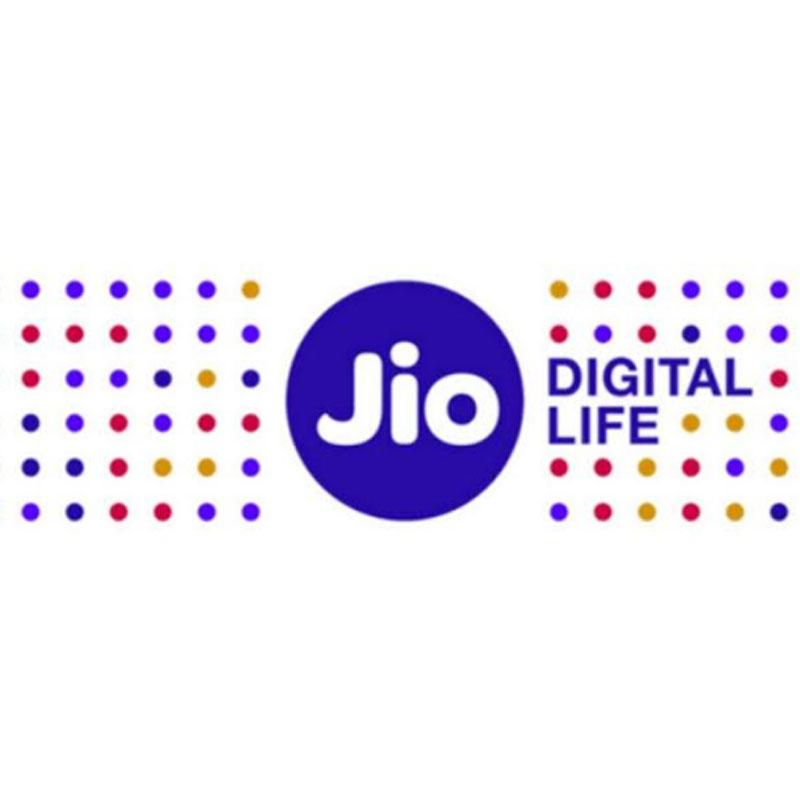
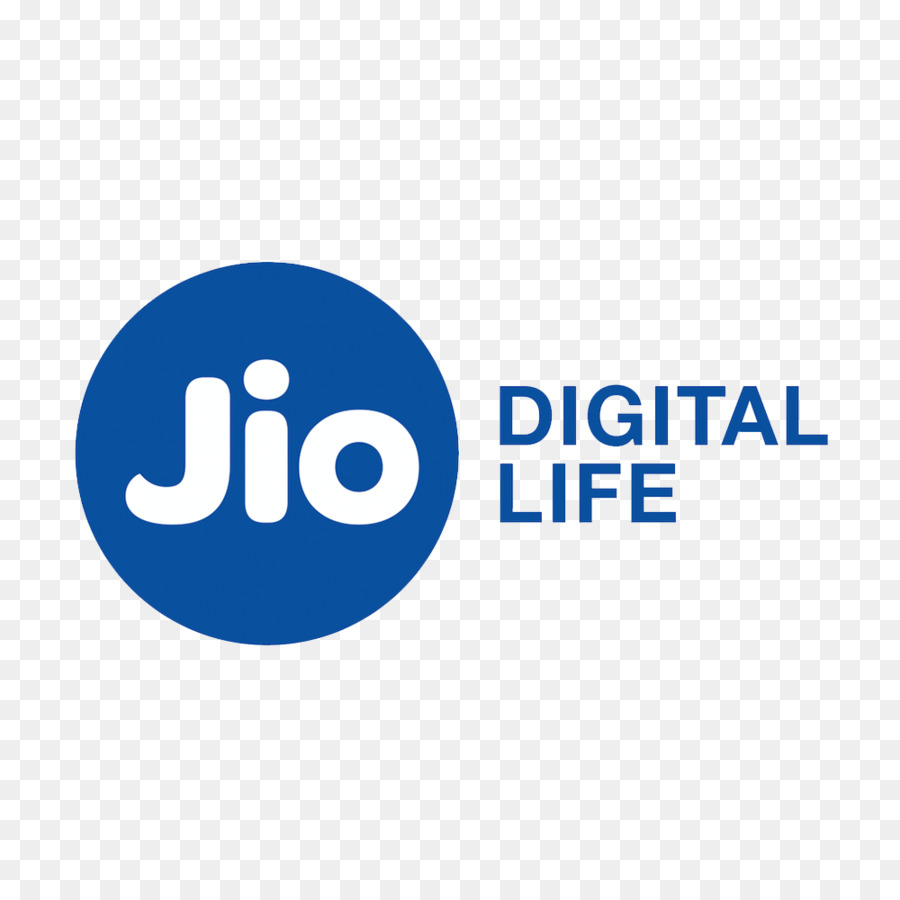
minor changes

diff --git a/index.html b/index.html
@@ -645,20 +645,20 @@
 
   <div style="background-color: powderblue">
     <figure class="hoc container clear clients">
-      <h6 class="heading" align="center">SPONSORS</h6>
-      <figure class="one_third first">
-        <a class="imgover" href="https://software.intel.com/en-us/ai-academy">
-          <img src="images/Intel-logo.png" alt="">
+      <h6 class="heading" align="center" style="color: black; font-family:helvetica;">SPONSORS</h6>
+      <figure class="one_third first" align="center">
+        <a class="imgover" href="https://software.intel.com/en-us/ai-academy" target="intel">
+          <img src="images/intel.png" alt="intel">
         </a>
       </figure>
-      <figure class="one_third">
-        <a class="imgover" href="https://www.capillarytech.com/">
-          <img src="images/capillary.png" alt="">
+      <figure class="one_third" align="center">
+        <a class="imgover" href="https://www.capillarytech.com/" target="capillary">
+          <img src="images/capillary1.png" alt="capillary">
         </a>
       </figure>
-      <figure class="one_third">
-        <a class="imgover" href="https://www.jio.com/">
-          <img src="images/jio1.jpg" alt="">
+      <figure class="one_third" align="center">
+        <a class="imgover" href="https://www.jio.com/" target="jio">
+          <img src="images/jio2.png" alt="jio">
         </a>
       </figure>
       <!-- ################################################################################################ -->
@@ -678,7 +678,7 @@
       	<div class="col-1">
         </div>
        	<div class="col-1">
-          <img src="images/log.png" class "rounded" alt="">        		
+          <img src="images/log.png" class "rounded" alt="iit kgp">        		
         	</div>
         	<div class="col">
           <div class="text-dark h3 ">Department of Computer Science and Engineering, IIT Kharagpur</div>
